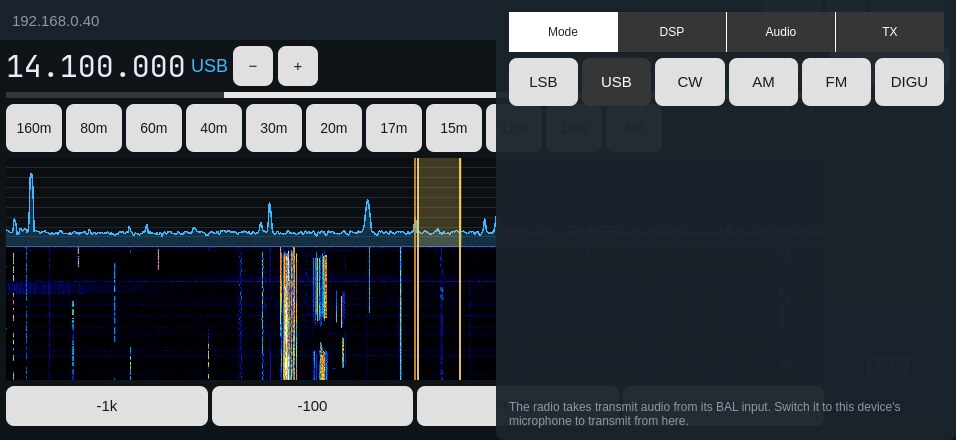
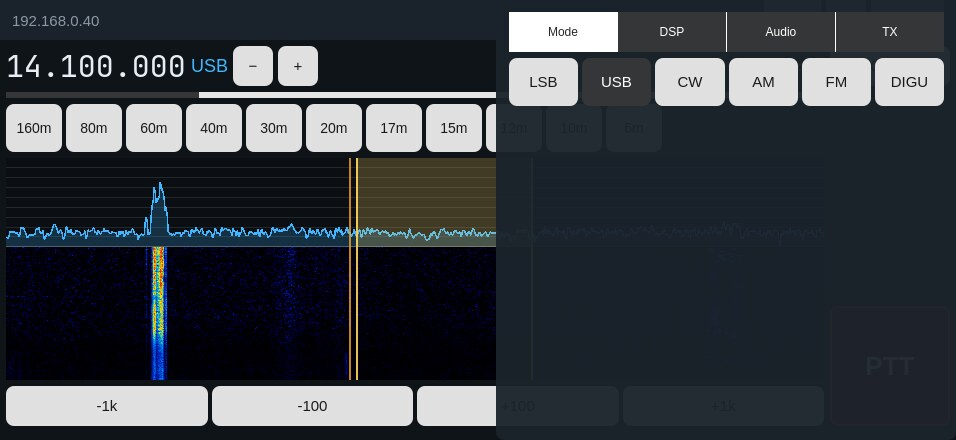
fix(mobile): waterfall rows on their real frequencies; tuning drags the view past the edge. Principle VIII.
iPad feedback (zoomed into an 80 m LSB signal): the spectrum showed the
signal filling the filter passband while the waterfall drew it narrower,
somewhere else. Also, dragging stopped at the edge of the display.

- Waterfall: each Flex row carries the range it covers (lowMhz..highMhz),
  which lags or exceeds the pan after a zoom or retune. Rows were stretched
  across the view regardless; they are now drawn by frequency against the
  pan's current range (outside the row is black).
- Waterfall history follows the view: on every pan centre or bandwidth
  change the image is moved and stretched so old rows stay on the same
  frequencies. Spectrum, passband and waterfall now line up at every zoom.
- Tuning keeps the slice at least 10 % of a span inside the view. Past
  that, the pan centre follows (requestPanCenter), so a drag, the arrow
  keys or the step buttons keep going up or down the band.
- Screenshots refreshed (update-screenshots.sh).

Evidence (FLEX at 192.168.0.40): zoomed to 12.5 kHz, the spectrum peaks at
x = 30, 215 and 525 px sit on the waterfall traces, and older history is
stretched to match. Tuning to centre + 0.48 x span sent `slice tune 1
14.106000` and `display pan set ... center=14.101000`. Tuning back inside
the view left the pan alone.

Claude-Session: https://claude.ai/code/session_01KANojkzU64KoozGDbNDzRK

diff --git a/mobile/src/SpectrumItem.cpp b/mobile/src/SpectrumItem.cpp
@@ -44,6 +44,7 @@ void SpectrumItem::setEngine(MobileEngine* engine)
     if (m_engine) {
         connect(m_engine, &MobileEngine::spectrumFrame, this, &SpectrumItem::onSpectrum);
         connect(m_engine, &MobileEngine::waterfallRow, this, &SpectrumItem::onWaterfallRow);
+        connect(m_engine, &MobileEngine::panGeometryChanged, this, &SpectrumItem::followView);
         reportPixels();
     }
     emit engineChanged();
@@ -81,6 +82,8 @@ void SpectrumItem::reportPixels()
         m_waterfall = resized;
         // Rows at the new width come at a new scale; re-learn the range.
         m_rangeSeeded = false;
+        m_viewLowMhz = 0.0;
+        m_viewHighMhz = 0.0;
     }
     if (m_engine) {
         m_engine->setPanPixels(w, specH);
@@ -109,11 +112,42 @@ void SpectrumItem::onSpectrum(const QVector<float>& binsDbm)
     update();
 }
 
-void SpectrumItem::onWaterfallRow(const QVector<float>& bins)
+void SpectrumItem::followView()
+{
+    if (!m_engine || m_waterfall.isNull() || m_engine->panBandwidthMhz() <= 0.0) {
+        return;
+    }
+    const double low = m_engine->panCenterMhz() - m_engine->panBandwidthMhz() / 2.0;
+    const double high = m_engine->panCenterMhz() + m_engine->panBandwidthMhz() / 2.0;
+    const bool hadView = m_viewHighMhz > m_viewLowMhz;
+    if (hadView && qFuzzyCompare(low, m_viewLowMhz) && qFuzzyCompare(high, m_viewHighMhz)) {
+        return;
+    }
+    if (hadView) {
+        // Old pixel x showed m_viewLow + x/w * oldSpan; place it at the same
+        // frequency in the new view. Uncovered parts turn black.
+        const double w = m_waterfall.width();
+        const double newSpan = high - low;
+        const QRectF target((m_viewLowMhz - low) / newSpan * w, 0.0,
+                            (m_viewHighMhz - m_viewLowMhz) / newSpan * w, m_waterfall.height());
+        QImage moved(m_waterfall.size(), QImage::Format_RGB32);
+        moved.fill(Qt::black);
+        QPainter painter(&moved);
+        painter.drawImage(target, m_waterfall);
+        painter.end();
+        m_waterfall = moved;
+        update();
+    }
+    m_viewLowMhz = low;
+    m_viewHighMhz = high;
+}
+
+void SpectrumItem::onWaterfallRow(const QVector<float>& bins, double lowMhz, double highMhz)
 {
     if (bins.isEmpty() || m_waterfall.isNull()) {
         return;
     }
+    followView();
     // Black at the median (the band's noise), full scale near the 99.5th
     // percentile; smoothed across rows so the picture does not pump with
     // every strong signal.
@@ -138,8 +172,25 @@ void SpectrumItem::onWaterfallRow(const QVector<float>& bins)
     std::memmove(bits + rowBytes, bits, rowBytes * (h - 1));
     auto* row = reinterpret_cast<QRgb*>(bits);
     const qsizetype n = bins.size();
+    // Place the row by frequency: it covers lowMhz..highMhz, which need not
+    // be the pan's range (Flex rows lag a zoom or retune). Without a range,
+    // stretch it across the view.
+    const bool placed = highMhz > lowMhz && m_viewHighMhz > m_viewLowMhz;
+    const double viewSpan = m_viewHighMhz - m_viewLowMhz;
+    const double rowSpan = highMhz - lowMhz;
     for (int x = 0; x < w; ++x) {
-        const qsizetype i = std::min<qsizetype>(n - 1, static_cast<qsizetype>(x) * n / w);
+        qsizetype i = 0;
+        if (placed) {
+            const double f = m_viewLowMhz + (x + 0.5) / w * viewSpan;
+            const double pos = (f - lowMhz) / rowSpan * n;
+            if (pos < 0.0 || pos >= n) {
+                row[x] = qRgb(0, 0, 0);
+                continue;
+            }
+            i = static_cast<qsizetype>(pos);
+        } else {
+            i = std::min<qsizetype>(n - 1, static_cast<qsizetype>(x) * n / w);
+        }
         row[x] = colourFor((bins.at(i) - m_floor) / m_span);
     }
     update();

diff --git a/mobile/src/MobileEngine.cpp b/mobile/src/MobileEngine.cpp
@@ -43,6 +43,8 @@ const QString kControlsVisibleKey = QStringLiteral("MobileControlsVisible");
 const QString kDeviceMicSelection = QStringLiteral("PC");
 constexpr int kPanPixelsSettleMs = 400;
 constexpr int kMinPanYPixels = 200;
+// Fraction of the span kept between the slice and the edge while tuning.
+constexpr double kPanFollowEdge = 0.1;
 constexpr double kDbPerSUnit = 6.0;
 
 } // namespace
@@ -104,9 +106,10 @@ MobileEngine::MobileEngine(QObject* parent)
         }
     });
     connect(&rm, &RadioModel::panFeedWaterfallRowReady, this,
-            [this](quint32 streamId, const QVector<float>& bins, double, double, quint32, qint64, bool) {
+            [this](quint32 streamId, const QVector<float>& bins, double lowMhz, double highMhz,
+                   quint32, qint64, bool) {
         if (m_pan && m_pan->wfStreamId() == streamId) {
-            emit waterfallRow(bins);
+            emit waterfallRow(bins, lowMhz, highMhz);
         }
     });
     connect(&rm.meterModel(), &MeterModel::sLevelChanged, this, [this](int sliceIndex, float dbm) {
@@ -526,12 +529,20 @@ void MobileEngine::tuneTo(double mhz)
     if (!m_slice || mhz <= 0.0) {
         return;
     }
-    const bool insidePan = m_pan && m_pan->bandwidthMhz() > 0.0
-        && std::abs(mhz - m_pan->centerMhz()) < m_pan->bandwidthMhz() / 2.0;
-    if (insidePan) {
-        m_slice->setFrequency(mhz);
-    } else {
+    if (!m_pan || m_pan->bandwidthMhz() <= 0.0) {
         m_slice->tuneAndRecenter(mhz);
+        return;
+    }
+    m_slice->setFrequency(mhz);
+    // Near or past an edge the view follows, keeping the slice
+    // kPanFollowEdge of a span inside it, so dragging keeps going up or down
+    // the band instead of stopping at the edge of the display.
+    const double bandwidth = m_pan->bandwidthMhz();
+    const double offset = mhz - m_pan->centerMhz();
+    const double limit = bandwidth * (0.5 - kPanFollowEdge);
+    if (std::abs(offset) > limit) {
+        const double center = offset > 0.0 ? mhz - limit : mhz + limit;
+        m_session.radioModel().requestPanCenter(m_pan->panId(), center);
     }
 }
 

diff --git a/mobile/src/SpectrumItem.h b/mobile/src/SpectrumItem.h
@@ -38,7 +38,10 @@ protected:
 
 private:
     void onSpectrum(const QVector<float>& binsDbm);
-    void onWaterfallRow(const QVector<float>& bins);
+    void onWaterfallRow(const QVector<float>& bins, double lowMhz, double highMhz);
+    // Moves and stretches the waterfall history so it stays on the same
+    // frequencies after the pan is retuned or zoomed.
+    void followView();
     void reportPixels();
     QRgb colourFor(float normalised) const;
 
@@ -48,6 +51,8 @@ private:
     float m_floor{0.0f};
     float m_span{0.0f};
     bool m_rangeSeeded{false};
+    double m_viewLowMhz{0.0};
+    double m_viewHighMhz{0.0};
     float m_traceBottom{-130.0f};
     float m_traceTop{-40.0f};
     bool m_traceSeeded{false};

diff --git a/mobile/src/MobileEngine.h b/mobile/src/MobileEngine.h
@@ -190,10 +190,11 @@ signals:
     void txMetersChanged();
     void dspChanged();
     void stepChanged();
-    // Frames of the active panadapter only. Spectrum bins are dBm.
-    // Waterfall rows are intensities on a backend-dependent scale.
+    // Frames of the active panadapter only. Spectrum bins are dBm and span
+    // the pan. Waterfall rows are intensities on a backend-dependent scale
+    // covering lowMhz..highMhz, which need not equal the pan's range.
     void spectrumFrame(const QVector<float>& binsDbm);
-    void waterfallRow(const QVector<float>& bins);
+    void waterfallRow(const QVector<float>& bins, double lowMhz, double highMhz);
 
 private:
     void startAudio();
